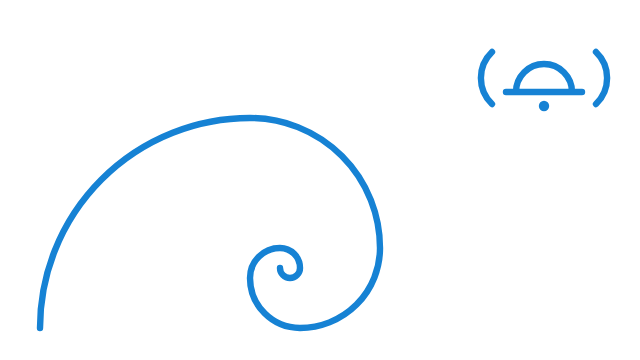
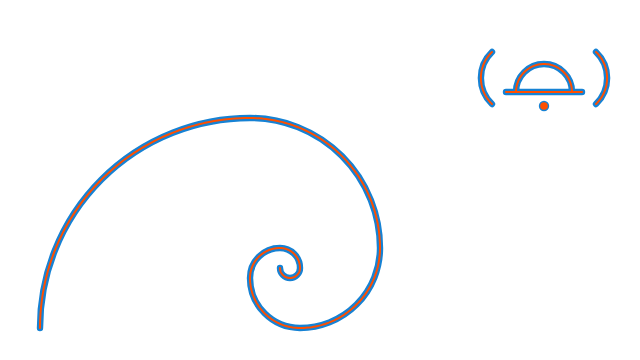
Render the wave from its Desmos expressions; show it next to a Desmos ocean graph
- wave.svg draws the geometry in blue and each expression of
  wave.desmos.json in orange: the Desmos render is the default.
- docs/drawings/README.md shows the wave by @h0ffmann next to
  "dog the narwhal" by Diana A. (Desmos, 2022), loaded from Desmos,
  not copied.
- Both READMEs credit the drawing to Matheus Hoffmann (@h0ffmann).

Tested: just check

Claude-Session: https://claude.ai/code/session_01P3z8R5AS99GKLhbYtDhLH3

diff --git a/docs/drawings/wave.py b/docs/drawings/wave.py
@@ -7,6 +7,7 @@ Usage: python3 docs/drawings/wave.py > docs/drawings/wave.svg
 """
 import json
 import math
+import re
 import sys
 s=5; fib=[1,1,2,3,5,8,13,21]; radii=[s*f for f in reversed(fib)]  # 105..5, outside in
 x0,y0=20,164
@@ -58,15 +59,39 @@ def desmos_state():
 if sys.argv[1:] == ["desmos"]:
     print(json.dumps(desmos_state(), indent=2))
     sys.exit(0)
+def desmos_layer(state):
+    """Sample each Desmos expression of the state into SVG: the orange line of the default render."""
+    H, out = 180, []
+    for e in state["expressions"]["list"]:
+        inner = e["latex"][len("\\left("):-len("\\right)")]
+        fx, fy = inner.split(",", 1)
+        def ev(expr, t):
+            expr = expr.replace("\\cos", "*math.cos").replace("\\sin", "*math.sin")
+            expr = re.sub(r"(?<=\d)t\b", "*t", expr)
+            return eval(expr, {"math": math, "t": t})  # only the expressions written above
+        if "parametricDomain" in e:
+            lo, hi = float(e["parametricDomain"]["min"]), float(e["parametricDomain"]["max"])
+            n = 64
+            pts = " ".join(f"{ev(fx, lo + (hi - lo) * i / n):.2f},{H - ev(fy, lo + (hi - lo) * i / n):.2f}"
+                           for i in range(n + 1))
+            out.append(f'<polyline points="{pts}"/>')
+        else:
+            out.append(f'<circle cx="{ev(fx, 0)}" cy="{H - ev(fy, 0)}" r="1.4" fill="#FF4F00"/>')
+    return "\n    ".join(out)
+
+
 debug=len(sys.argv)>1
 sq="".join(f'<rect x="{x}" y="{y}" width="{r}" height="{r}" fill="none" stroke="#FF4F00" stroke-width="0.8" stroke-dasharray="2 2"/>' for x,y,r in squares) if debug else ""
-label="A Fibonacci wave and a bell: an original line drawing"
+label="A Fibonacci wave and a bell, by @h0ffmann: an original line drawing, rendered from its Desmos expressions"
 print(f'''<svg xmlns="http://www.w3.org/2000/svg" viewBox="0 0 320 180" width="320" height="180" role="img" aria-label="{label}">
   <title>{label}</title>
-  <desc>The wave is a Fibonacci spiral: eight quarter-circle arcs with radii 5 x (21, 13, 8, 5, 3, 2, 1, 1).</desc>{sq}
+  <desc>The wave is a Fibonacci spiral: eight quarter-circle arcs with radii 5 x (21, 13, 8, 5, 3, 2, 1, 1). The blue line is the geometry; the orange line is each expression of wave.desmos.json, sampled.</desc>{sq}
   <g fill="none" stroke="#1682D4" stroke-width="3.2" stroke-linecap="round" stroke-linejoin="round">
     <path d="{spiral}"/>
     <path d="{bell}"/>
     {clapper}
+  </g>
+  <g fill="none" stroke="#FF4F00" stroke-width="1" stroke-linecap="round" stroke-linejoin="round">
+    {desmos_layer(desmos_state())}
   </g>
 </svg>''')

diff --git a/docs/drawings/README.md b/docs/drawings/README.md
@@ -2,7 +2,8 @@
 
 ## `wave.svg`
 
-A wave and an abstract bell. `wave.py` writes the drawing in two formats from one geometry:
+A wave and an abstract bell, by Matheus Hoffmann ([@h0ffmann](https://github.com/h0ffmann)), 2026.
+`wave.py` writes the drawing in two formats from one geometry:
 
 | File | Command | What it is |
 |---|---|---|
@@ -14,6 +15,26 @@ A wave and an abstract bell. `wave.py` writes the drawing in two formats from on
 `python3 docs/drawings/wave.py squares` draws the squares.
 
 **The bell** is a half circle (radius 14), a rim, a clapper dot and two sound arcs (radius 18).
+
+**The default render is the Desmos render.** `wave.svg` draws the geometry in blue. On top, in
+orange, it draws each expression of `wave.desmos.json`, sampled at 65 points. Where the two lines
+agree, the orange line runs inside the blue line.
+
+### Side by side
+
+| ialerts wave | Ocean in Desmos |
+|---|---|
+| <img src="wave.svg" width="320" alt="A Fibonacci wave and a bell"/> | <a href="https://www.desmos.com/calculator/2yzcas3kwf"><img src="https://www.desmos.com/calc_thumbs/production/2yzcas3kwf.png" width="320" alt="dog the narwhal, by Diana A., in Desmos"/></a> |
+| *Fibonacci wave*, Matheus Hoffmann ([@h0ffmann](https://github.com/h0ffmann)), 2026. MPL-2.0. | *dog the narwhal*, Diana A., 2022, [Desmos graph](https://www.desmos.com/calculator/2yzcas3kwf). |
+
+- Desmos shows no likes or view counts, so "the most popular" ocean graph cannot be measured ⚠.
+  This graph is the sea-themed work that Desmos itself featured in the
+  [2024 Desmos Studio Math Art Expo](https://blog.desmos.com/tag/art-contest/) post. The post
+  names the artist as "Diana A." and the year as 2022.
+- This repository does not copy the graph or its picture. The table loads the picture from
+  Desmos, and the work stays under the terms of its author and of Desmos.
+- ⚠ Not checked: the picture at the Desmos URL (Desmos could not be opened from the machine that
+  wrote this page).
 
 ### Open the Desmos file
 

diff --git a/README.md b/README.md
@@ -1,6 +1,6 @@
 <div align="center">
 
-<img alt="A Fibonacci wave and a bell: an original line drawing" src="docs/drawings/wave.svg" width="320"/>
+<img alt="A Fibonacci wave and a bell, by @h0ffmann: an original line drawing" src="docs/drawings/wave.svg" width="320"/>
 
 # ialerts
 
@@ -157,7 +157,8 @@ in `wiki/`. The GitHub Wiki gets the pages only after the repository is public (
 ## Credits
 
 - The layout of this README comes from [picasso](https://github.com/h0ffmann/picasso).
-- The wave joins the Fibonacci spiral and Katsushika Hokusai's *The Great Wave off Kanagawa*
+- The drawing is by Matheus Hoffmann ([@h0ffmann](https://github.com/h0ffmann)). It is rendered from its
+  Desmos expressions. The wave joins the Fibonacci spiral and Katsushika Hokusai's *The Great Wave off Kanagawa*
   (c. 1831). Other artists drew Fibonacci waves before: credits in [`docs/drawings/README.md`](docs/drawings/README.md).
 - The app conventions (generators, doctor, scheduler, tasks) follow [Loco](https://loco.rs)
   (Apache-2.0). Screenshots of its bootstrap are in [`docs/screenshots/loco-bootstrap/`](docs/screenshots/loco-bootstrap).

diff --git a/README.pt-BR.md b/README.pt-BR.md
@@ -147,7 +147,8 @@ A documentação existe em quatro idiomas: pt-BR, inglês, chinês e japonês. A
 ## créditos
 
 - O layout do README em inglês vem do [picasso](https://github.com/h0ffmann/picasso).
-- A onda junta a espiral de Fibonacci e *A Grande Onda de Kanagawa*, de Katsushika Hokusai
+- O desenho é de Matheus Hoffmann ([@h0ffmann](https://github.com/h0ffmann)). O render sai das
+  expressões do Desmos. A onda junta a espiral de Fibonacci e *A Grande Onda de Kanagawa*, de Katsushika Hokusai
   (c. 1831). Outros artistas desenharam ondas de Fibonacci antes: os créditos estão em [`docs/drawings/README.md`](docs/drawings/README.md).
 - As convenções de app (geradores, doctor, agendador, tarefas) seguem o [Loco](https://loco.rs)
   (Apache-2.0). As capturas de tela do bootstrap estão em [`docs/screenshots/loco-bootstrap/`](docs/screenshots/loco-bootstrap).
